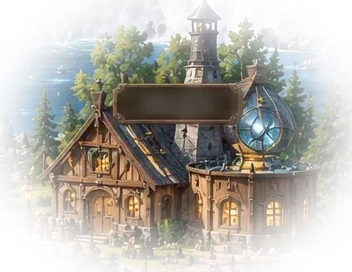
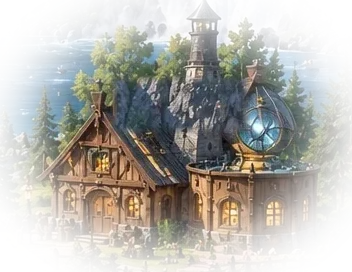
rendre le domaine au tableau
Les écriteaux de bois étaient peints dans l'image elle-même : retirer le
fond en CSS ne pouvait rien y faire. Les sept panneaux sont effacés du
tableau, chaque trou rebouché par un vrai morceau de peinture — une greffe
prise ailleurs et choisie pour que son pourtour raccorde, ou, quand le
panneau chevauchait deux matières, deux bandes prises juste au-dessus et
juste en dessous. Les décalages ont été choisis un par un : un raccord
peut être excellent au calcul et poser un second moulin à côté du premier.
Les sept calques de lieux sont redécoupés sur le tableau propre.

Le repère d'un lieu n'a plus de planche du tout : une icône posée à même
la peinture, que deux ombres suffisent à rendre lisible, et la pastille
qui compte ce qui attend. Le nom revient au survol.

Enfin, les fichiers statiques portent l'empreinte de leur contenu. Sans
elle, un navigateur pouvait garder le script d'hier avec la feuille de
style d'aujourd'hui, et l'interface se cassait à moitié sans que personne
comprenne pourquoi — c'est exactement ce qui s'était produit. Le nom
change avec le contenu, donc le cache long devient sûr.

Changed region(s): [[0.3125, 0.2647, 0.7188, 0.5]]

diff --git a/src/main/resources/static/css/brewstead.css b/src/main/resources/static/css/brewstead.css
@@ -300,75 +300,61 @@ button { font: inherit; color: inherit; border: 0; background: none; cursor: poi
     display: flex;
     flex-direction: column;
     align-items: center;
-    gap: 6px;
+    gap: 4px;
     padding: 0;
     font-family: "Cinzel", Georgia, serif;
 }
 
+/* Plus d'écriteau : l'icône est posée à même le tableau. Ce qui la tient
+   lisible sur une peinture chargée, ce n'est plus une planche de bois mais
+   deux ombres — une noire serrée qui la détache, une plus large qui la
+   pose. */
 .marker__plate {
     position: relative;
     display: flex;
     align-items: center;
     gap: 0;
-    padding: 7px;
-    font-size: 16px;
-    letter-spacing: .02em;
-    color: #f6e9cd;
-    text-shadow: 0 1px 2px rgba(0, 0, 0, .95);
-    background: linear-gradient(180deg, #4a3320, #241709), var(--grain);
-    background-blend-mode: normal, overlay;
-    border: 2px solid #8a6136;
-    border-radius: 99px;
-    box-shadow:
-            inset 0 1px 0 rgba(255, 224, 170, .28),
-            inset 0 -10px 18px rgba(0, 0, 0, .5),
-            0 6px 16px rgba(0, 0, 0, .55);
-    transition: transform .22s ease, box-shadow .22s ease, border-color .22s ease;
+    padding: 0;
+    font-size: 15px;
+    letter-spacing: .05em;
+    color: #ffeec9;
+    text-shadow: 0 1px 2px rgba(0, 0, 0, .95), 0 0 10px rgba(0, 0, 0, .85);
+    background: none;
+    border: 0;
+    transition: transform .22s ease;
     white-space: nowrap;
 }
 
-.marker__plate::after {
-    content: "";
-    position: absolute;
-    inset: 3px;
-    border: 1px solid rgba(255, 220, 160, .12);
-    border-radius: 99px;
-    pointer-events: none;
-}
-
-/* L'icône dit quel lieu, le compteur dit s'il faut y aller. Une pastille
-   de neuf pixels ne disait ni l'un ni l'autre. */
-
 .marker__icon {
-    width: 20px;
-    height: 20px;
+    width: 24px;
+    height: 24px;
     flex: none;
-    color: var(--gold);
-    opacity: .85;
+    color: var(--gold-hi);
+    opacity: .95;
+    filter: drop-shadow(0 1px 2px rgba(0, 0, 0, .95)) drop-shadow(0 0 7px rgba(0, 0, 0, .8));
     transition: color .22s ease, opacity .22s ease;
 }
 
-/* Le nom ne s'affiche qu'à la demande. Sept écriteaux en toutes lettres
-   couvraient le tableau ; réduits à leur médaillon, ils montrent le domaine
-   et disent quand même où l'on va dès qu'on les vise. Le repli se fait sur
-   la colonne de grille, qui s'anime, plutôt que sur la largeur, qui non. */
+/* Le nom ne s'affiche qu'à la demande. Le repli passe par la largeur
+   maximale et non par une colonne de grille : ça ne dépend d'aucune balise
+   interne, donc un JavaScript resté en cache ne peut pas laisser une
+   étiquette vide grande ouverte. */
 .marker__label {
-    display: grid;
-    grid-template-columns: 0fr;
+    max-width: 0;
     margin-left: 0;
+    overflow: hidden;
+    white-space: nowrap;
     opacity: 0;
-    transition: grid-template-columns .24s cubic-bezier(.2, .7, .3, 1),
-                margin-left .24s cubic-bezier(.2, .7, .3, 1),
+    transition: max-width .26s cubic-bezier(.2, .7, .3, 1),
+                margin-left .26s cubic-bezier(.2, .7, .3, 1),
                 opacity .16s ease;
 }
-
-.marker__text { min-width: 0; overflow: hidden; white-space: nowrap; }
 
 .marker:hover .marker__label,
 .marker:focus-visible .marker__label,
 .marker.is-lit .marker__label,
 .marker.is-active .marker__label {
-    grid-template-columns: 1fr;
+    max-width: 12em;
     margin-left: 9px;
     opacity: 1;
 }
@@ -414,8 +400,8 @@ button { font: inherit; color: inherit; border: 0; background: none; cursor: poi
 :root[data-mouvement="sobre"] .marker__count { animation: none; }
 
 .marker__pin {
-    width: 14px;
-    height: 14px;
+    width: 9px;
+    height: 9px;
     border-radius: 50%;
     background: radial-gradient(circle at 40% 35%, var(--gold-hi), var(--gold-lo));
     box-shadow: 0 0 0 3px rgba(20, 12, 4, .55), 0 4px 10px rgba(0, 0, 0, .6);
@@ -424,29 +410,14 @@ button { font: inherit; color: inherit; border: 0; background: none; cursor: poi
 
 .marker:hover .marker__plate,
 .marker:focus-visible .marker__plate,
-.marker.is-lit .marker__plate {
-    transform: translateY(-3px);
-    border-color: var(--gold);
-    box-shadow:
-            inset 0 1px 0 rgba(255, 224, 170, .35),
-            inset 0 -10px 18px rgba(0, 0, 0, .45),
-            0 10px 22px rgba(0, 0, 0, .6),
-            0 0 0 1px rgba(233, 188, 85, .5);
-}
+.marker.is-lit .marker__plate { transform: translateY(-3px); }
 
-.marker.is-active .marker__plate {
-    border-color: var(--gold);
-    box-shadow: 0 0 0 2px rgba(233, 188, 85, .55), 0 10px 22px rgba(0, 0, 0, .6);
-}
+/* Sans planche, l'état se dit sur l'icône elle-même : sa couleur, et la
+   halo d'ombre colorée qui la remplace. */
+.marker.is-active .marker__icon { color: #fff4d8; }
 
-/* Sur un décor aussi chargé, un lieu qui appelle doit se détacher du reste. */
-.marker[data-state="ready"] .marker__plate {
-    border-color: rgba(121, 196, 106, .7);
-    box-shadow:
-            inset 0 1px 0 rgba(255, 224, 170, .28),
-            inset 0 -10px 18px rgba(0, 0, 0, .5),
-            0 6px 16px rgba(0, 0, 0, .55),
-            0 0 1.4em rgba(121, 196, 106, .3);
+.marker[data-state="ready"] .marker__icon {
+    filter: drop-shadow(0 1px 2px rgba(0, 0, 0, .95)) drop-shadow(0 0 9px rgba(121, 196, 106, .95));
 }
 
 .marker[data-state="idle"] .marker__plate { opacity: .82; }

diff --git a/src/main/resources/templates/game/brewstead-world.html b/src/main/resources/templates/game/brewstead-world.html
@@ -114,7 +114,18 @@
             <img class="world__art" id="worldArt" width="1536" height="742" alt="Le domaine de Brewstead"
                  th:src="@{/images/brewstead-domaine.webp}" src="/images/brewstead-domaine.webp" draggable="false">
             <svg th:replace="~{game/brewstead-atmosphere :: atmosphere}"></svg>
-            <div class="world__lieux" id="lieux" aria-hidden="true"></div>
+            <!-- Les calques sont posés par le script, qui ne sait pas calculer
+                 l'empreinte d'un fichier. Le serveur la lui donne ici, sinon
+                 ces sept images seraient les seules à garder leur ancien
+                 contenu en cache après une mise à jour. -->
+            <div class="world__lieux" id="lieux" aria-hidden="true"
+                 th:attr="data-art-rucher=@{/images/lieux/rucher.webp},
+                          data-art-champs=@{/images/lieux/champs.webp},
+                          data-art-entrepot=@{/images/lieux/entrepot.webp},
+                          data-art-brasserie=@{/images/lieux/brasserie.webp},
+                          data-art-laboratoire=@{/images/lieux/laboratoire.webp},
+                          data-art-taverne=@{/images/lieux/taverne.webp},
+                          data-art-commandes=@{/images/lieux/commandes.webp}"></div>
             <div class="world__markers" id="markers"></div>
         </div>
         <div class="world__fx" aria-hidden="true">

diff --git a/src/main/resources/static/js/brewstead-app.js b/src/main/resources/static/js/brewstead-app.js
@@ -1698,10 +1698,14 @@
         dom.lieux.innerHTML = Data.PLACES.filter(function (place) { return place.calque; })
             .map(function (place) {
                 var c = place.calque;
+                // Le serveur a posé l'adresse empreintée sur le conteneur ;
+                // le chemin nu ne sert que de secours.
+                var art = dom.lieux.dataset['art' + place.id.charAt(0).toUpperCase() + place.id.slice(1)]
+                    || '/images/lieux/' + place.id + '.webp';
                 return '<button class="lieu" type="button" data-place="' + place.id + '"' +
                     ' data-state="idle" tabindex="-1" aria-hidden="true"' +
                     ' style="left:' + c.x + 'px;top:' + c.y + 'px;width:' + c.w + 'px;height:' + c.h + 'px">' +
-                    '<img class="lieu__art" src="/images/lieux/' + place.id + '.webp"' +
+                    '<img class="lieu__art" src="' + esc(art) + '"' +
                     ' alt="" draggable="false" decoding="async" fetchpriority="low">' +
                     '</button>';
             }).join('');
